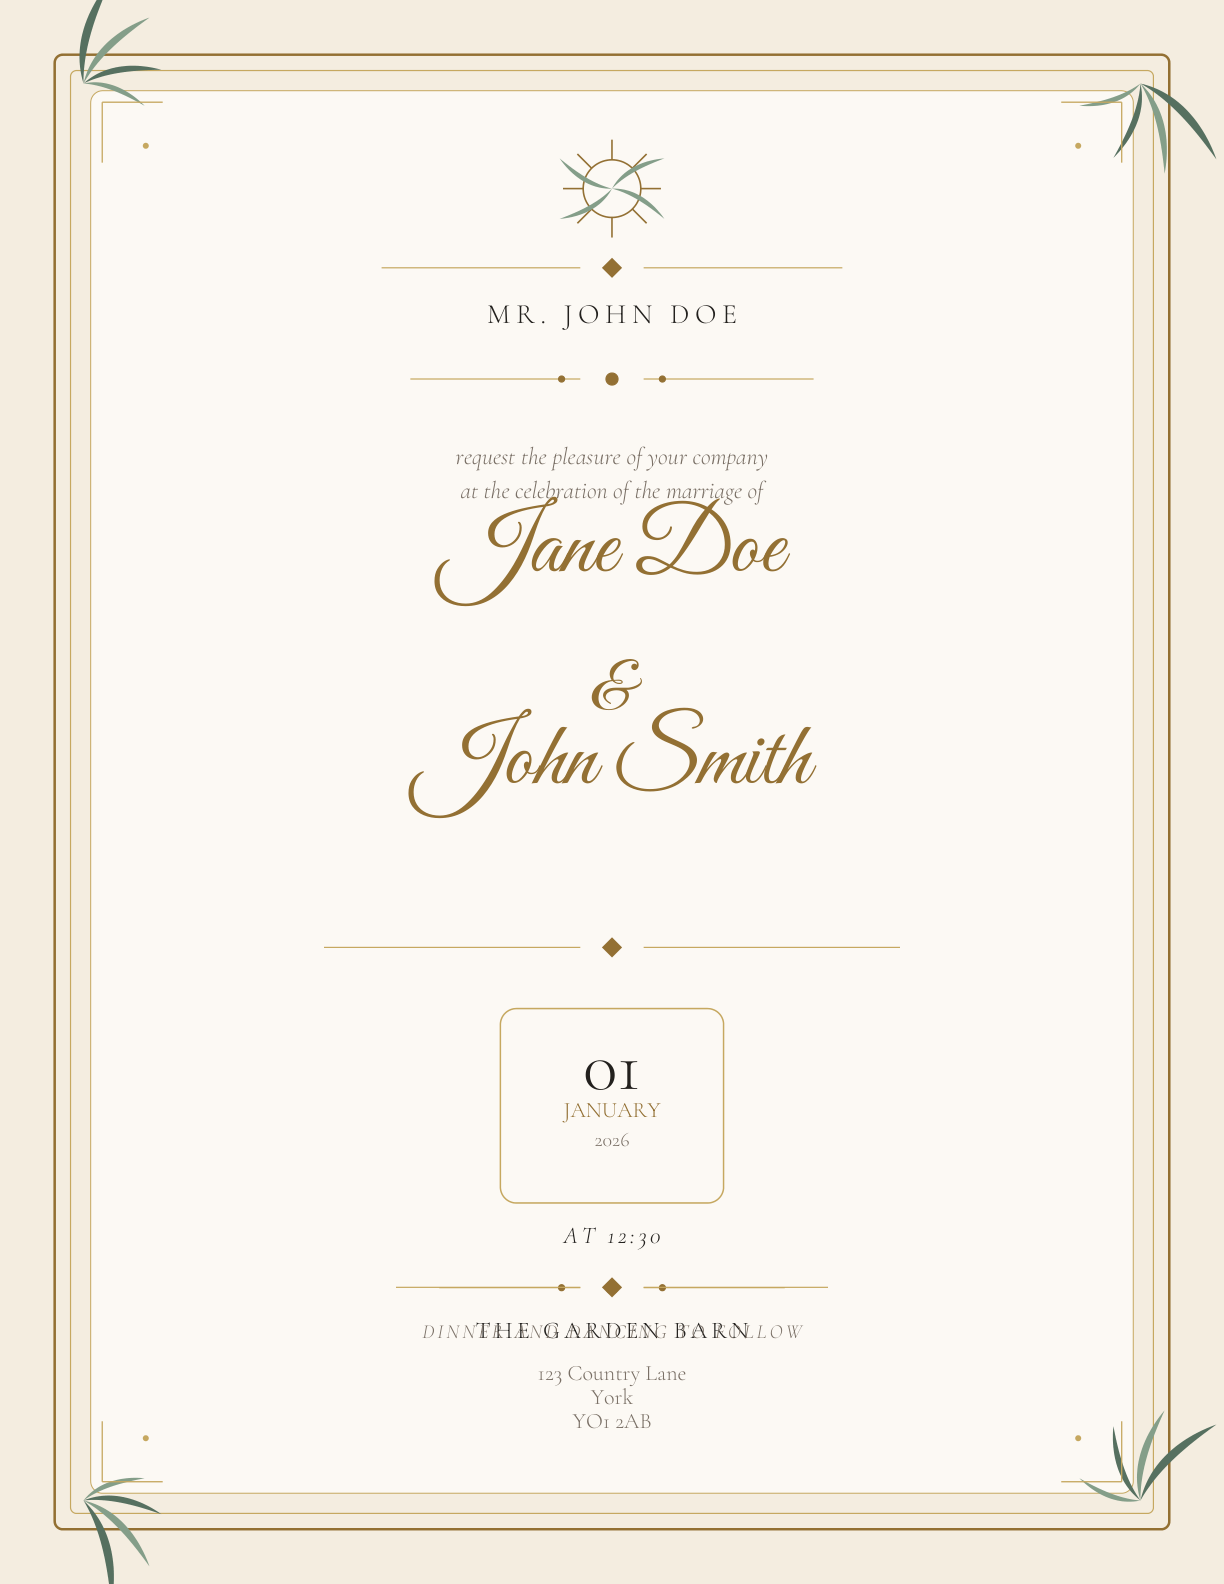
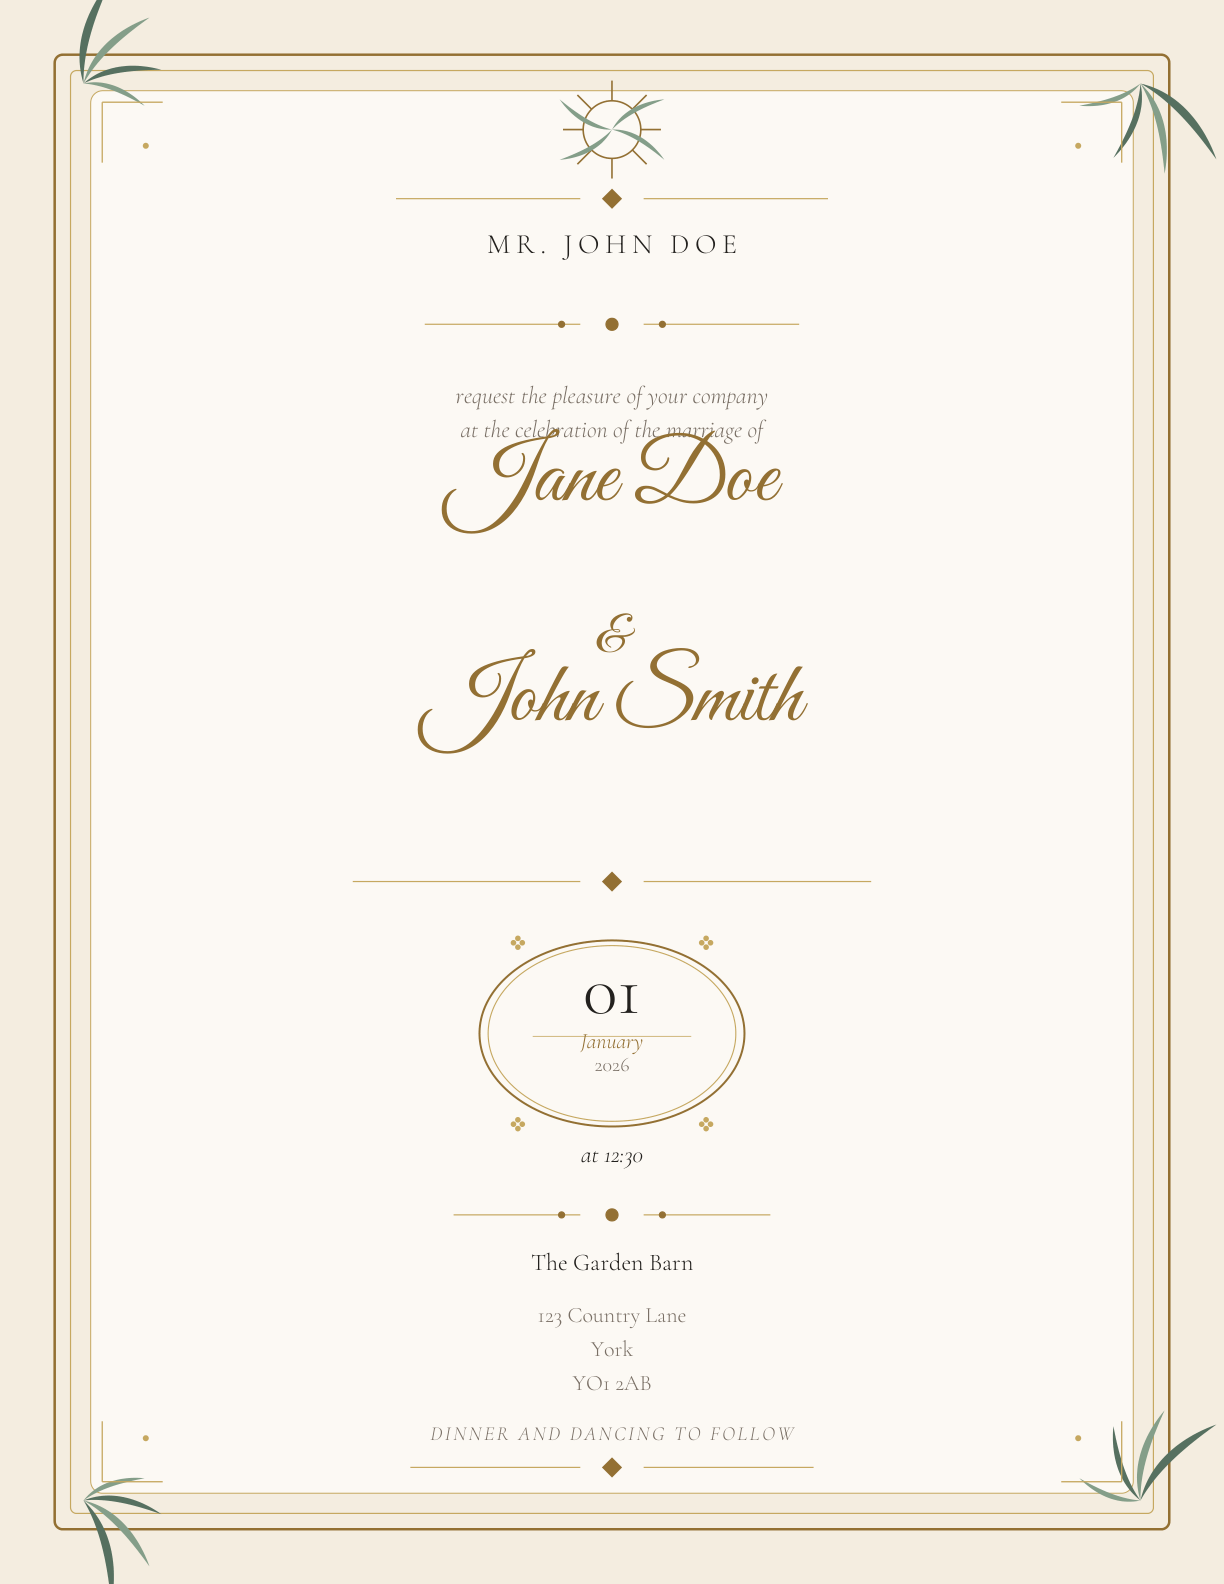
Fix invitation text overlap and refine visual layout
- Flow footer below venue instead of fixed bottom position (prevents collision)
- Remove upward Y adjustment that caused venue/reception overlap
- Increase script name spacing; smaller ampersand; italic time line
- Redesign date as double ellipse medallion with florets and title-case month
- Venue in title case; tighter vertical rhythm throughout

diff --git a/wedding_invites/generator.py b/wedding_invites/generator.py
@@ -24,6 +24,12 @@ from wedding_invites.text_layout import (
     fit_font_size,
 )
 
+# Vertical rhythm (inches) — tuned to avoid footer overlap on letter size
+GAP_SM = 0.14
+GAP_MD = 0.22
+GAP_LG = 0.30
+GAP_SECTION = 0.38
+
 
 class WeddingInvitationGenerator:
     """Generates personalized wedding invitation PDFs."""
@@ -48,9 +54,48 @@ class WeddingInvitationGenerator:
         self.fonts = self.design["fonts"]
         self.copy = self.design["copy"]
 
+    def _content_bottom(self) -> float:
+        """Lowest Y for text (above bottom botanicals)."""
+        return self.frame_inset + 0.62 * inch
+
+    def _content_top(self) -> float:
+        return self.page_height - self.frame_inset - 0.52 * inch
+
     def _draw_background(self, c: canvas.Canvas) -> None:
         c.setFillColor(self.colors["background"])
         c.rect(0, 0, self.page_width, self.page_height, fill=1, stroke=0)
+
+    def _draw_couple_names(
+        self,
+        c: canvas.Canvas,
+        y: float,
+        bride: str,
+        groom: str,
+        script: str,
+        gold,
+    ) -> float:
+        """Draw couple names with a compact ornamental ampersand."""
+        amp_size = self.fonts["ampersand_size"]
+
+        bride_size = fit_font_size(
+            c, bride, script, self.fonts["name_size"], self.fonts["name_min_size"], self.content_w
+        )
+        y = draw_centered_text(
+            c, bride, y, self.page_width, script, bride_size, gold
+        )
+        # Extra room for script descenders before the ampersand
+        y -= max(GAP_MD * inch, bride_size * 0.22)
+
+        draw_centered_text(c, "&", y, self.page_width, script, amp_size, gold)
+        y -= amp_size * 0.95 + GAP_SM * inch
+
+        groom_size = fit_font_size(
+            c, groom, script, self.fonts["name_size"], self.fonts["name_min_size"], self.content_w
+        )
+        y = draw_centered_text(
+            c, groom, y, self.page_width, script, groom_size, gold
+        )
+        return y
 
     def _draw_text_content(self, c: canvas.Canvas, invitation_data: Dict) -> None:
         script = fonts.script_font()
@@ -59,18 +104,15 @@ class WeddingInvitationGenerator:
         gold = self.colors["gold"]
         text_dark = self.colors["text_dark"]
         text_light = self.colors["text_light"]
+        bottom_limit = self._content_bottom()
 
-        content_inset = self.frame_inset + 0.38 * inch
-        y = self.page_height - content_inset - 0.55 * inch
+        y = self._content_top()
 
-        # Header emblem
         draw_header_emblem(c, y, self.page_width, self.colors)
-        y -= 0.55 * inch
+        y -= 0.48 * inch
+        draw_ornament_divider(c, y, self.page_width, self.colors, width=3.0 * inch)
+        y -= GAP_SECTION * inch
 
-        draw_ornament_divider(c, y, self.page_width, self.colors, width=3.2 * inch)
-        y -= 0.38 * inch
-
-        # Guest honour line
         guest = invitation_data.get("guest_names") or self.copy["default_guest"]
         prefix = (self.copy.get("guest_prefix") or "").strip()
         guest_line = f"{prefix} {guest}".strip() if prefix else guest
@@ -84,56 +126,33 @@ class WeddingInvitationGenerator:
             text_dark,
             tracking=self.fonts.get("guest_tracking", 2.5),
         )
-        y -= 0.12 * inch
+        y -= GAP_MD * inch
 
-        draw_ornament_divider(c, y, self.page_width, self.colors, width=2.8 * inch, style="dot")
-        y -= 0.42 * inch
+        draw_ornament_divider(c, y, self.page_width, self.colors, width=2.6 * inch, style="dot")
+        y -= GAP_SECTION * inch
 
-        # Invitation copy (may include line break)
         invite = self.copy["invitation_line"]
         y = draw_centered_paragraph(
             c,
             invite,
             y,
             self.page_width,
-            self.content_w * 0.92,
+            self.content_w * 0.9,
             body_italic,
             self.fonts["invite_line_size"],
             text_light,
-            leading=self.fonts["invite_line_size"] * 1.45,
+            leading=self.fonts["invite_line_size"] * 1.4,
         )
-        y -= 0.2 * inch
+        y -= GAP_MD * inch
 
-        # Couple names with ornamental ampersand
         bride = invitation_data.get("bride_name", "")
         groom = invitation_data.get("groom_name", "")
+        y = self._draw_couple_names(c, y, bride, groom, script, gold)
+        y -= GAP_LG * inch
 
-        for index, name in enumerate((bride, groom)):
-            if index == 1:
-                amp_size = self.fonts["ampersand_size"]
-                y -= 0.08 * inch
-                draw_centered_text(
-                    c, "&", y, self.page_width, script, amp_size, gold
-                )
-                y -= amp_size * 0.95
+        draw_ornament_divider(c, y, self.page_width, self.colors, width=3.6 * inch)
+        y -= GAP_SECTION * inch
 
-            name_size = fit_font_size(
-                c,
-                name,
-                script,
-                self.fonts["name_size"],
-                self.fonts["name_min_size"],
-                self.content_w,
-            )
-            y = draw_centered_text(
-                c, name, y - 0.08 * inch, self.page_width, script, name_size, gold
-            )
-
-        y -= 0.28 * inch
-        draw_ornament_divider(c, y, self.page_width, self.colors, width=4.0 * inch)
-        y -= 0.55 * inch
-
-        # Date medallion + time & venue column
         date_parts = invitation_data.get("date_parts")
         if not date_parts:
             date_str = invitation_data.get("date_display") or invitation_data.get("date", "")
@@ -142,19 +161,27 @@ class WeddingInvitationGenerator:
 
         day, month, year = date_parts
         cx = self.page_width / 2
-        medallion_y = y - 0.55 * inch
+        medallion_h = 1.35 * inch
+        medallion_y = y - medallion_h / 2
         draw_date_medallion(
-            c, cx, medallion_y, day, month, year, self.fonts, self.colors, body
+            c,
+            cx,
+            medallion_y,
+            day,
+            month,
+            year,
+            self.fonts,
+            self.colors,
+            body,
+            body_italic,
         )
+        y = medallion_y - medallion_h / 2 - GAP_MD * inch
 
-        y = medallion_y - 0.95 * inch
-
-        # Time
         time_str = invitation_data.get("time", "")
         time_prefix = self.copy.get("time_prefix", "at")
-        time_line = f"{time_prefix} {time_str}".strip() if time_str else ""
-        if time_line:
-            y = draw_centered_spaced_caps(
+        if time_str:
+            time_line = f"{time_prefix} {time_str}".strip()
+            y = draw_centered_text(
                 c,
                 time_line,
                 y,
@@ -162,31 +189,27 @@ class WeddingInvitationGenerator:
                 body_italic,
                 self.fonts["time_size"],
                 text_dark,
-                tracking=1.8,
             )
-            y -= 0.08 * inch
+            y -= GAP_SM * inch
 
         draw_ornament_divider(
-            c, y, self.page_width, self.colors, width=2.4 * inch, style="dot"
+            c, y, self.page_width, self.colors, width=2.2 * inch, style="dot"
         )
-        y -= 0.35 * inch
+        y -= GAP_SECTION * inch
 
-        # Venue block
         venue = invitation_data.get("venue") or {}
         venue_name = venue.get("name", "")
         if venue_name:
-            name_size = self.fonts["venue_name_size"]
-            y = draw_centered_spaced_caps(
+            y = draw_centered_text(
                 c,
                 venue_name,
                 y,
                 self.page_width,
                 body,
-                name_size,
+                self.fonts["venue_name_size"],
                 text_dark,
-                tracking=2.0,
             )
-            y -= 0.06 * inch
+            y -= GAP_SM * inch
 
         address_lines = [
             venue.get("address_1", ""),
@@ -194,35 +217,35 @@ class WeddingInvitationGenerator:
             venue.get("postcode", ""),
         ]
         address_lines = [line for line in address_lines if line]
-
+        detail_size = self.fonts["detail_size"]
         for line in address_lines:
             y = draw_centered_text(
-                c,
-                line,
-                y,
-                self.page_width,
-                body,
-                self.fonts["detail_size"],
-                text_light,
+                c, line, y, self.page_width, body, detail_size, text_light
             )
-            y += 0.04 * inch
+            y -= 0.03 * inch
 
-        # Footer
-        footer_y = content_inset + 0.95 * inch
+        # Footer always flows downward after venue (never jump upward)
+        y -= GAP_LG * inch
         draw_ornament_divider(
-            c, footer_y + 0.35 * inch, self.page_width, self.colors, width=3.0 * inch
+            c, y, self.page_width, self.colors, width=2.8 * inch, style="diamond"
         )
+        y -= GAP_MD * inch
 
         reception = invitation_data.get("reception_note") or self.copy["default_reception"]
+        reception_size = self.fonts["reception_size"]
+
+        if y < bottom_limit:
+            y = bottom_limit
+
         draw_centered_spaced_caps(
             c,
             reception,
-            footer_y,
+            y,
             self.page_width,
             body_italic,
-            self.fonts["reception_size"],
+            reception_size,
             text_light,
-            tracking=1.5,
+            tracking=1.2,
         )
 
     def generate_invitation(

diff --git a/wedding_invites/artwork.py b/wedding_invites/artwork.py
@@ -239,6 +239,15 @@ def draw_header_emblem(c: canvas.Canvas, y: float, page_width: float, colors: di
         _bezier_leaf(c, (cx, y), angle, 0.42 * inch, sage, stroke=0.6)
 
 
+def _draw_medallion_floret(c: canvas.Canvas, x: float, y: float, colors: dict) -> None:
+    """Small four-petal floret for medallion corners."""
+    gold = colors.get("gold_light", colors["gold"])
+    c.setFillColor(gold)
+    r = 2.2
+    for dx, dy in ((0, r), (r, 0), (0, -r), (-r, 0)):
+        c.circle(x + dx, y + dy, 1.4, fill=1, stroke=0)
+
+
 def draw_date_medallion(
     c: canvas.Canvas,
     cx: float,
@@ -249,37 +258,69 @@ def draw_date_medallion(
     fonts: dict,
     colors: dict,
     body_font: str,
+    body_italic: str,
 ) -> Tuple[float, float]:
-    """Draw date as a centred medallion; returns (width, height) of block."""
+    """Draw date in an ornamental ellipse medallion; returns (width, height)."""
     gold = colors["gold"]
     gold_light = colors.get("gold_light", gold)
+    panel = colors.get("panel", colors["background"])
     text = colors["text_dark"]
 
-    w_box = 1.55 * inch
-    h_box = 1.35 * inch
+    w_box = 1.72 * inch
+    h_box = 1.22 * inch
     left = cx - w_box / 2
     bottom = cy - h_box / 2
 
+    # Soft inner fill
+    c.setFillColor(panel)
     c.setStrokeColor(gold_light)
-    c.setLineWidth(0.75)
-    c.roundRect(left, bottom, w_box, h_box, 8, fill=0, stroke=1)
+    c.setLineWidth(0.55)
+    c.ellipse(left, bottom, left + w_box, bottom + h_box, fill=1, stroke=1)
 
+    # Outer accent ellipse
+    pad = 0.06 * inch
+    c.setStrokeColor(gold)
+    c.setLineWidth(1.0)
+    c.ellipse(
+        left - pad,
+        bottom - pad * 0.6,
+        left + w_box + pad,
+        bottom + h_box + pad * 0.6,
+        fill=0,
+        stroke=1,
+    )
+
+    # Corner flourishes on the frame
+    for fx, fy in (
+        (left + w_box * 0.12, bottom + h_box + 0.02 * inch),
+        (left + w_box * 0.88, bottom + h_box + 0.02 * inch),
+        (left + w_box * 0.12, bottom - 0.02 * inch),
+        (left + w_box * 0.88, bottom - 0.02 * inch),
+    ):
+        _draw_medallion_floret(c, fx, fy, colors)
+
+    # Horizontal accent through centre
+    c.setStrokeColor(gold_light)
+    c.setLineWidth(0.4)
+    c.line(cx - w_box * 0.32, cy - 0.02 * inch, cx + w_box * 0.32, cy - 0.02 * inch)
+
+    day_size = fonts.get("date_day_size", 34)
     c.setFillColor(text)
-    day_size = fonts.get("date_day_size", 36)
     c.setFont(body_font, day_size)
     dw = c.stringWidth(day, body_font, day_size)
-    c.drawString(cx - dw / 2, cy + 0.12 * inch, day)
+    c.drawString(cx - dw / 2, cy + 0.14 * inch, day)
 
-    month_size = fonts.get("date_month_size", 11)
-    c.setFont(body_font, month_size)
+    month_size = fonts.get("date_month_size", 10)
+    c.setFont(body_italic, month_size)
     c.setFillColor(gold)
-    mw = c.stringWidth(month, body_font, month_size)
-    c.drawString(cx - mw / 2, cy - 0.08 * inch, month)
+    month_display = month.title() if month.isupper() else month
+    mw = c.stringWidth(month_display, body_italic, month_size)
+    c.drawString(cx - mw / 2, cy - 0.1 * inch, month_display)
 
-    year_size = fonts.get("date_year_size", 10)
+    year_size = fonts.get("date_year_size", 9)
     c.setFillColor(colors["text_light"])
     c.setFont(body_font, year_size)
     yw = c.stringWidth(year, body_font, year_size)
-    c.drawString(cx - yw / 2, cy - 0.28 * inch, year)
+    c.drawString(cx - yw / 2, cy - 0.26 * inch, year)
 
-    return w_box, h_box
+    return w_box, h_box + pad
